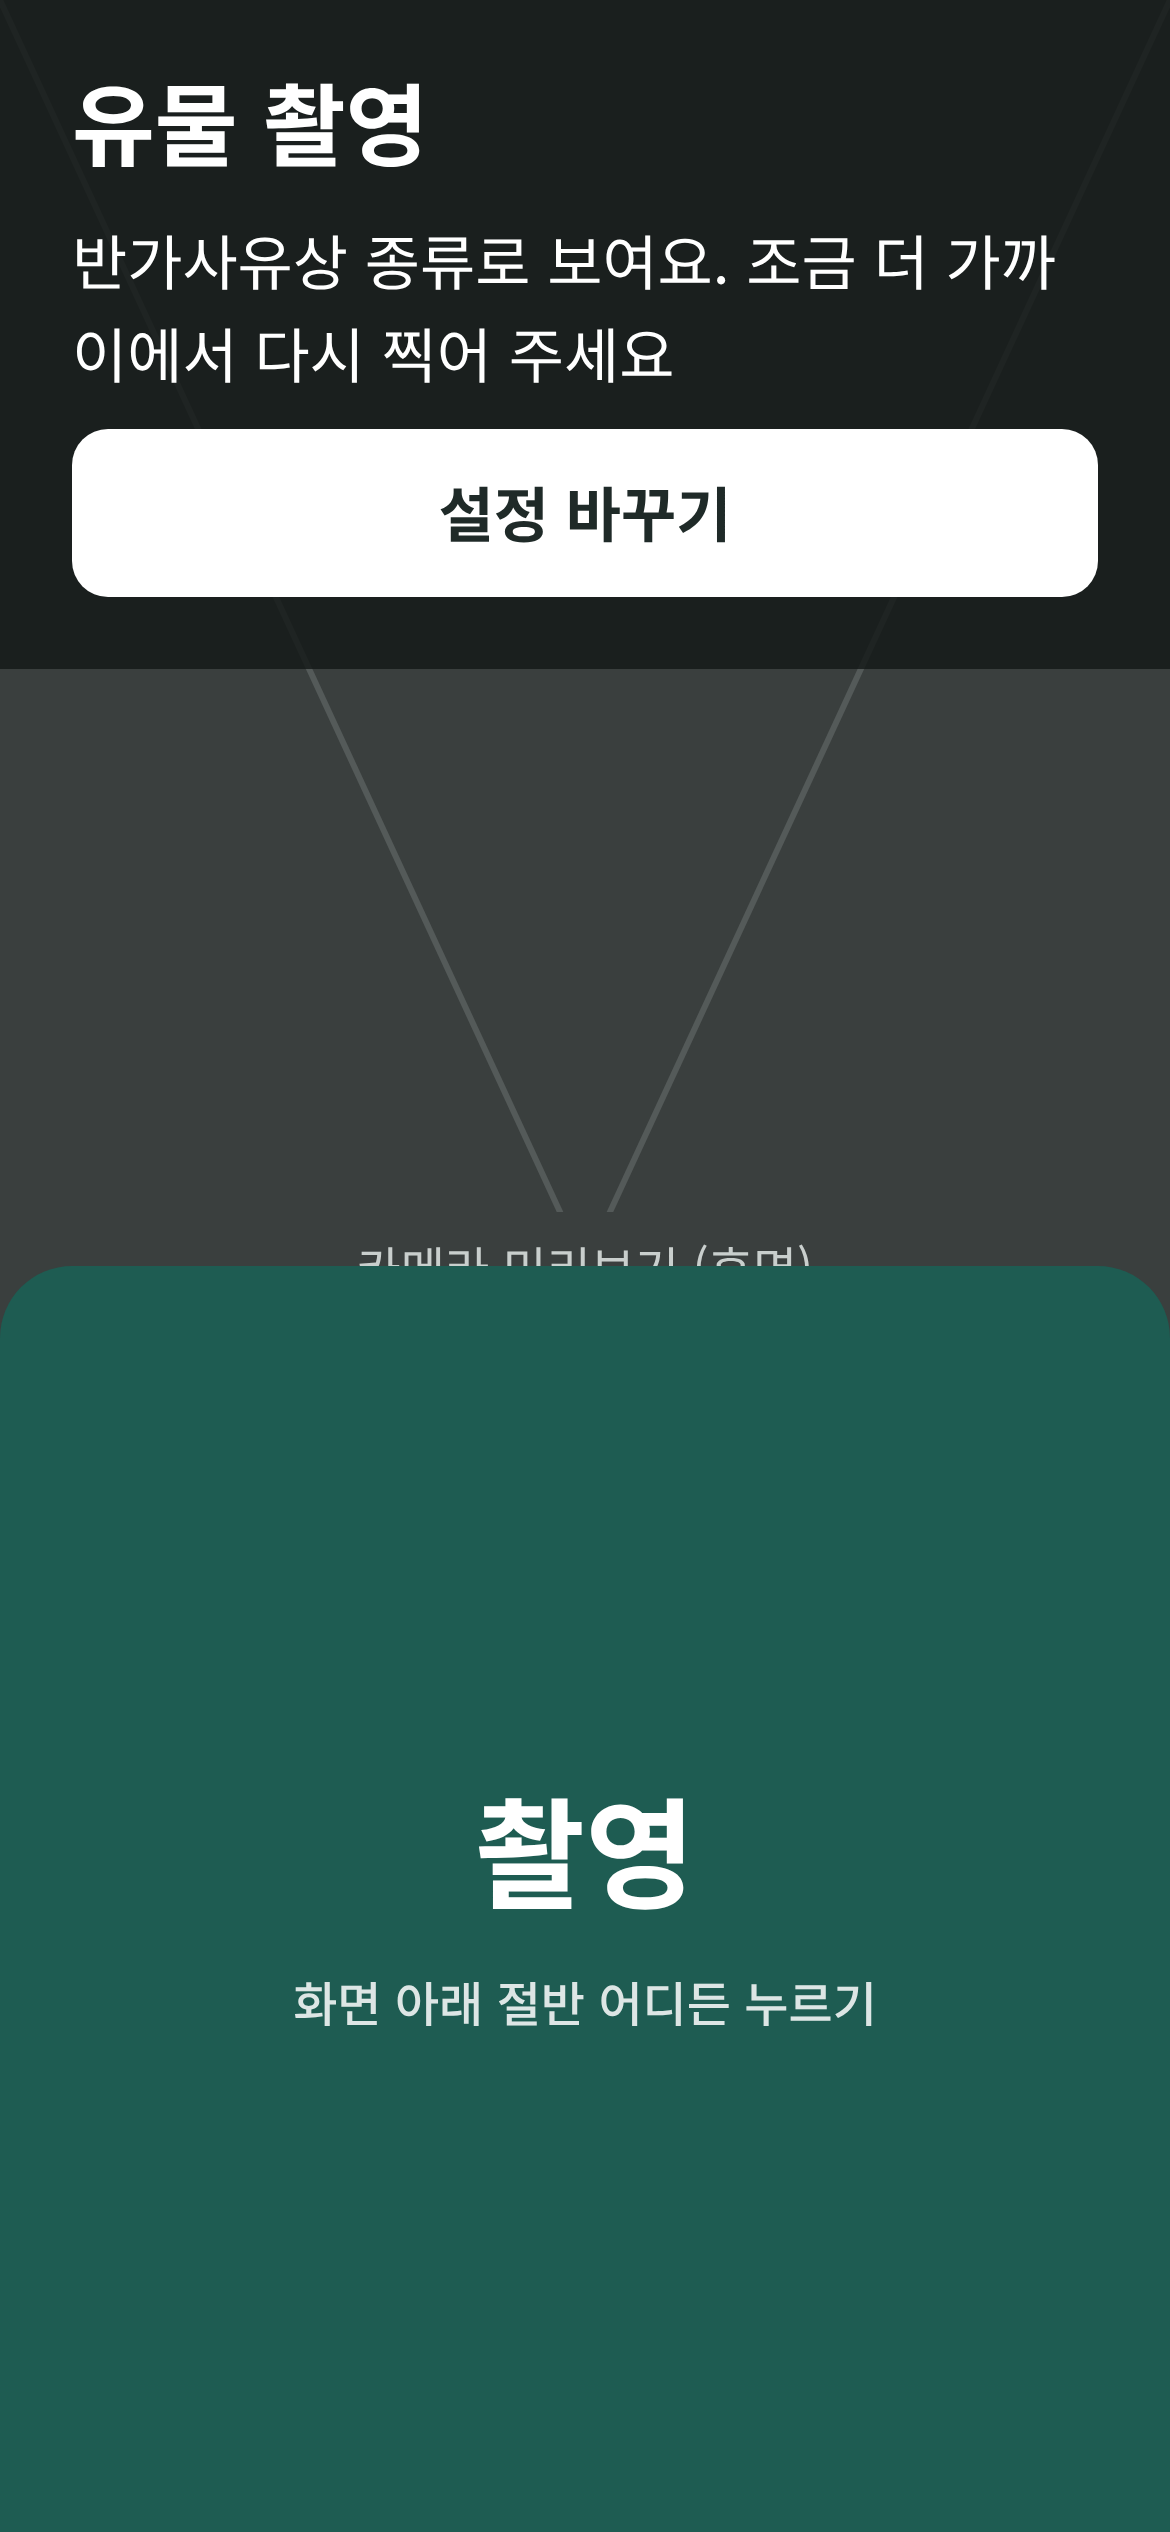
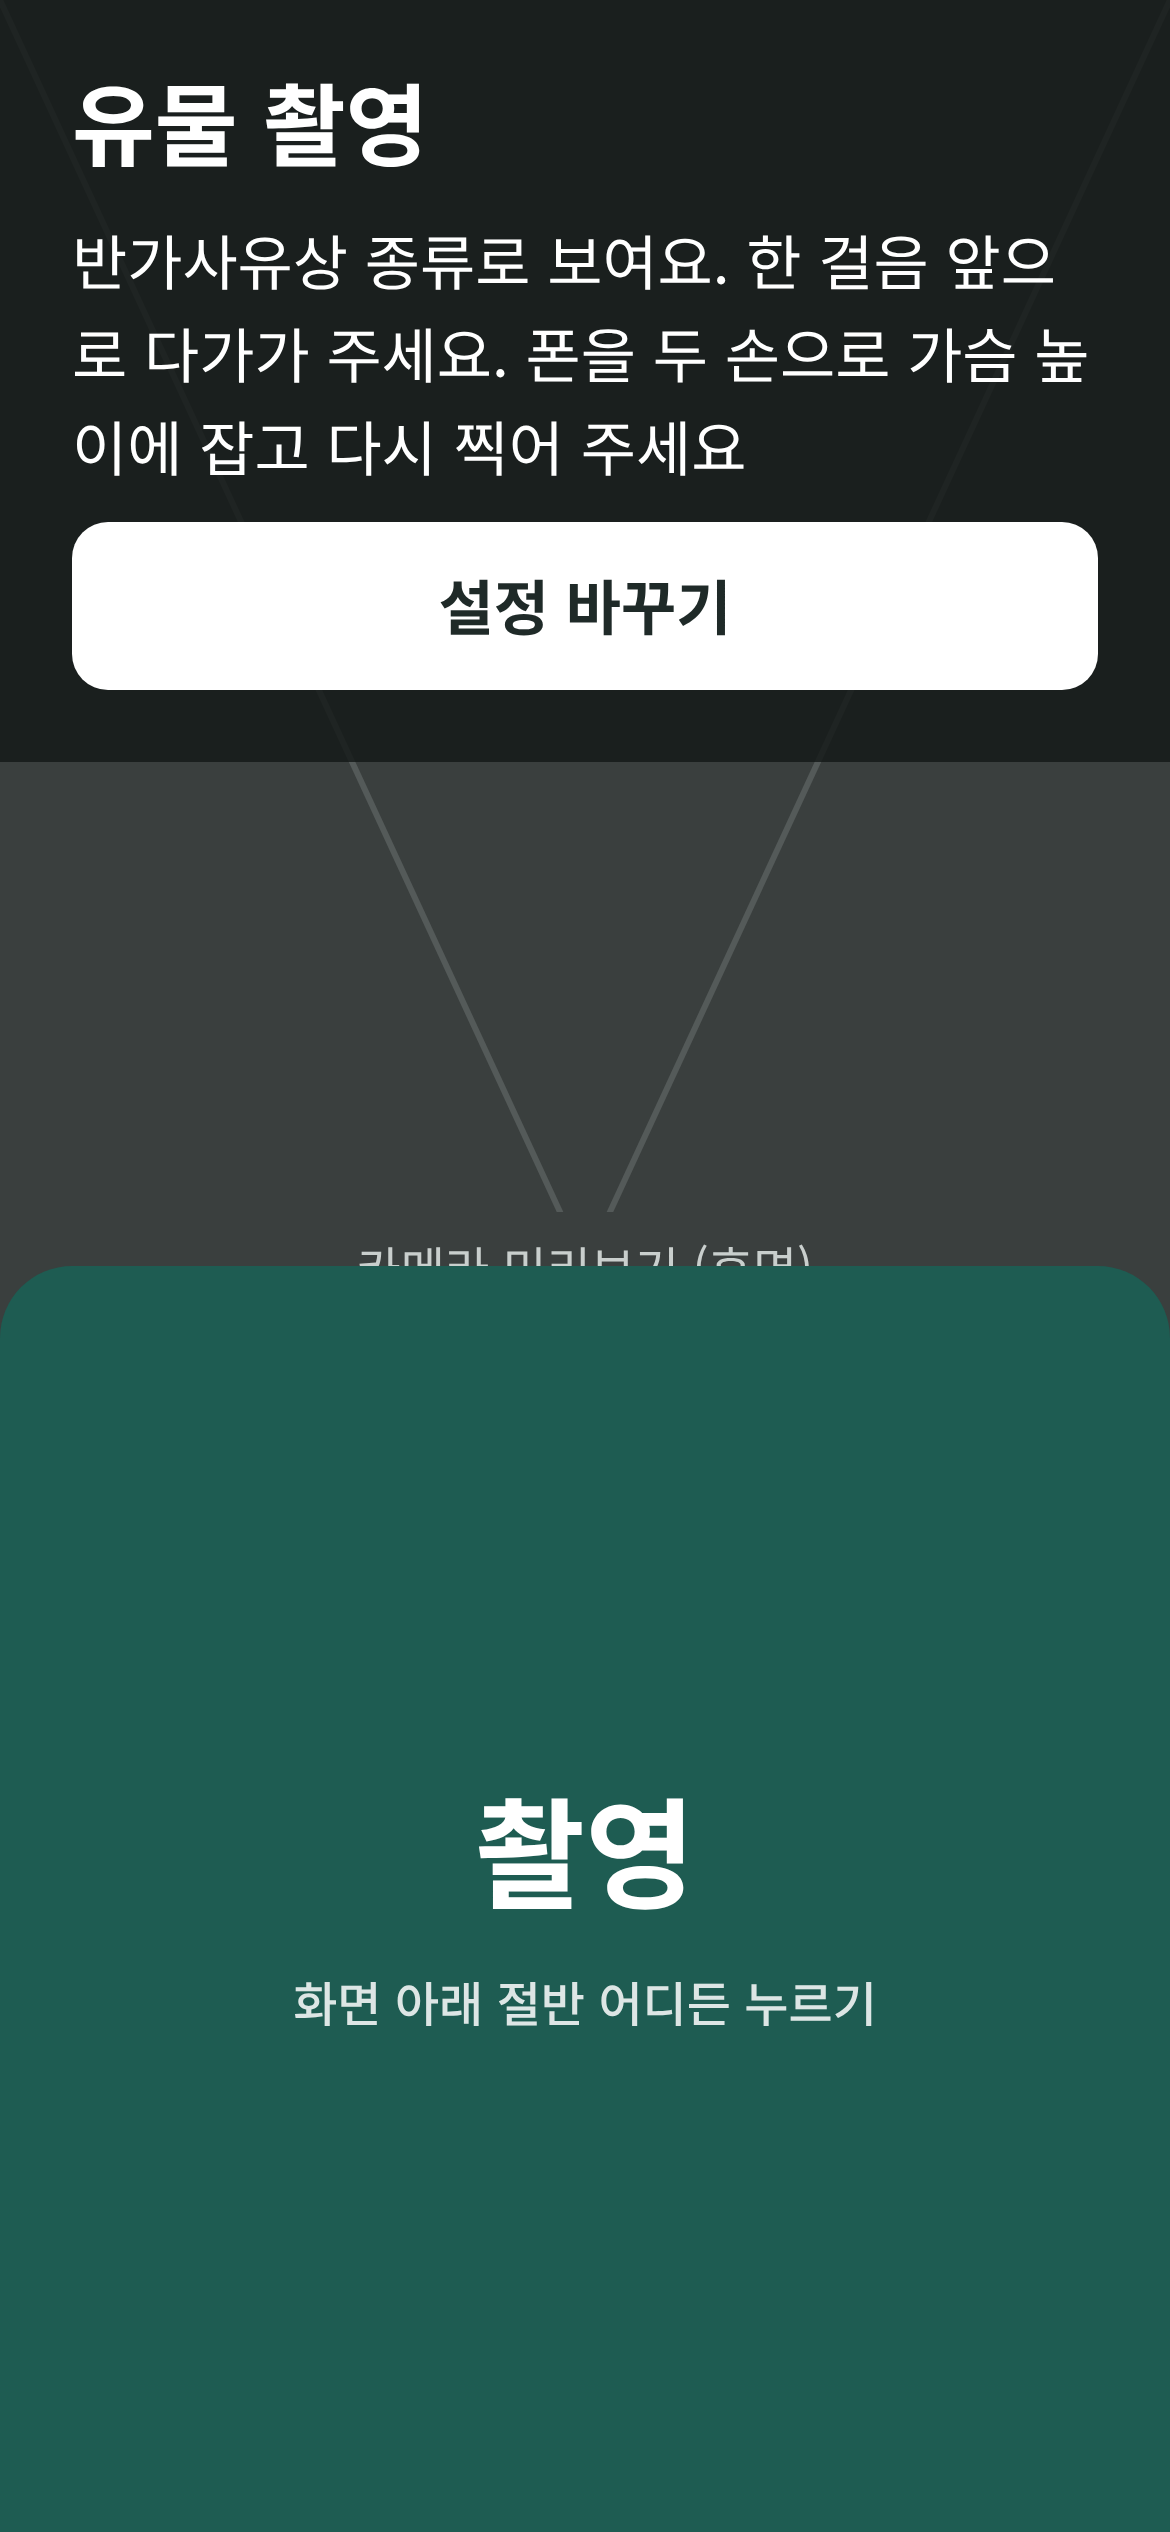
docs/ui: 재촬영 문구·다중 크롭 반영 (PR #26 후속)
- 4-retake.png 새 uncertain 문구로 다시 렌더링
- README: uncertain/reject 문구 명시, 다중 크롭으로 임베딩 3회 → 시간 측정 필요

Claude-Session: https://claude.ai/code/session_01DfepJ392XQtfxeKLme7Tzy

Changed region(s): [[0.0, 0.0936, 1.0, 0.312]]

diff --git a/docs/ui/README.md b/docs/ui/README.md
@@ -34,9 +34,12 @@
 - **`/recognize`의 `status`로 화면이 갈린다.**
   - `ok` → 6 해설로 이동. 제목에 `name`을 그대로 표시한다.
   - `uncertain`, `reject` → 4 재촬영 안내. 서버의 `message`를 그대로 화면에 띄우고 읽는다 (없을 때만 프론트 기본 문구). 문구를 바꾸려면 `backend/app/recognize.py`의 `MESSAGES`를 고친다.
+    - `uncertain`: "반가사유상 종류로 보여요. 한 걸음 앞으로 다가가 주세요. 폰을 두 손으로 가슴 높이에 잡고 다시 찍어 주세요"
+    - `reject`: "유물을 찾지 못했어요. 유물 쪽으로 몸을 돌리고, 폰을 가슴 높이에 들고 다시 찍어 주세요"
+    - 화면을 못 봐도 따라 할 수 있게 몸의 동작으로 안내한다 (PR #26). 프론트 기본 문구(`Capture.tsx`의 `FALLBACK`)도 같다.
 - **`/narration`이 404면** 해설 화면이 "해설을 불러오지 못했어요"를 읽는다. `reviewed: true`인 해설만 나간다.
 - **`/ask`의 `grounded: false`** 면 `answer`("자료에 없는 내용이에요")를 그대로 읽고 근거는 표시하지 않는다.
-- **3초 목표:** 촬영 버튼부터 해설 음성 시작까지. `/recognize`와 `/narration` 왕복(ngrok 포함)이 이 안에 들어와야 한다. 프론트는 `/recognize` 소요 시간을 브라우저 콘솔에 `[timing]`으로 찍는다 (#12 측정용).
+- **3초 목표:** 촬영 버튼부터 해설 음성 시작까지. `/recognize`와 `/narration` 왕복(ngrok 포함)이 이 안에 들어와야 한다. 프론트는 `/recognize` 소요 시간을 브라우저 콘솔에 `[timing]`으로 찍는다 (#12 측정용). 다중 크롭(PR #26)으로 서버는 사진 1장당 임베딩을 3번(원본·중앙 60%·중앙 40%) 계산하므로 노트북 CPU에서의 시간을 꼭 잰다.
 
 ## 원본
 
